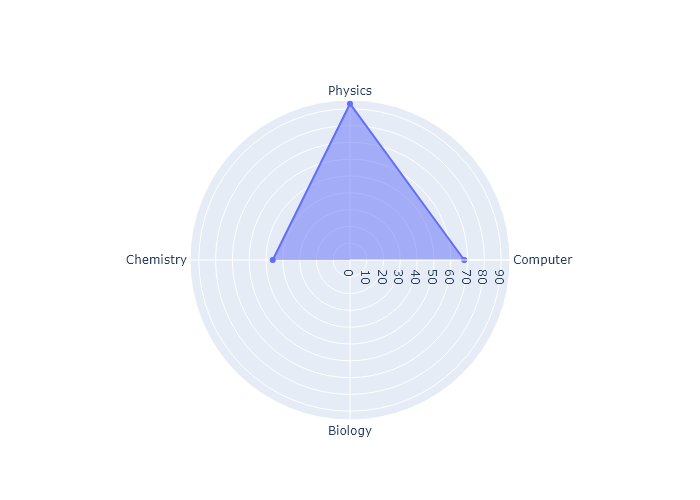
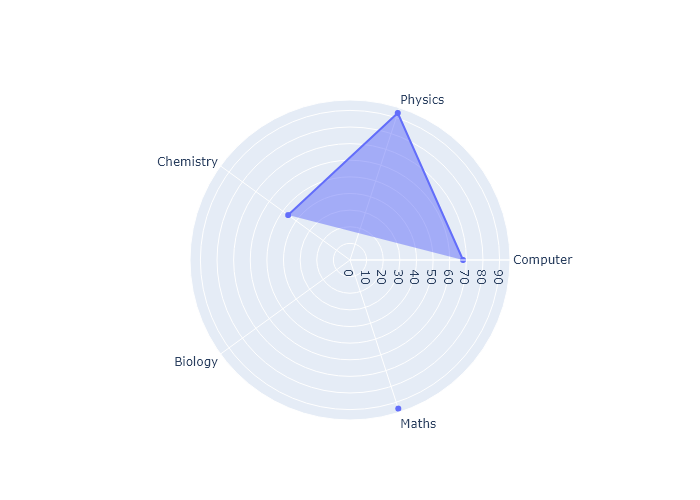
UPDATE 3.0

diff --git a/3_Implementation/PythonCode/MarksAnalyzer.py b/3_Implementation/PythonCode/MarksAnalyzer.py
@@ -11,8 +11,7 @@ import os
 def display(id,data):
   fig = go.Figure(data=go.Scatterpolar(
     r=data,
-    theta=['Computer','Physics','Chemistry', 'Biology',
-            'Maths'],
+    theta=['Computer','Physics','Chemistry', 'Biology','Maths'],
     fill='toself'
   ))
   fig.update_layout(
@@ -24,8 +23,6 @@ def display(id,data):
     showlegend=False
   )
   fig.write_image("results/"+str(id)+".png")
-data=[5,2,3,4,5]
-# display(data)
 
 #create a file for results
 if not os.path.exists('results'):
@@ -103,8 +100,13 @@ print(final)
 print(final.iloc[0,3:7].mean())
 print(final.iloc[0,0])
 # print(final.shape[0])
-display(final.iloc[0,0],final.iloc[0,3:7])
+# display(final.iloc[0,0],final.iloc[0,3:8])
 for i in range(final.shape[0]):
-  display(final.iloc[i,0],final.iloc[i,3:7])
+  display(final.iloc[i,0],final.iloc[i,3:8])
 # df["Average"] = final.iloc[0,3:final.shape[1]].mean()
 # print(df)
+col = final.loc[: , "Computer":"Maths"]
+final['Average'] = col.mean(axis=1)
+print(final)
+final.to_csv("results/studentMarks.csv")
+
